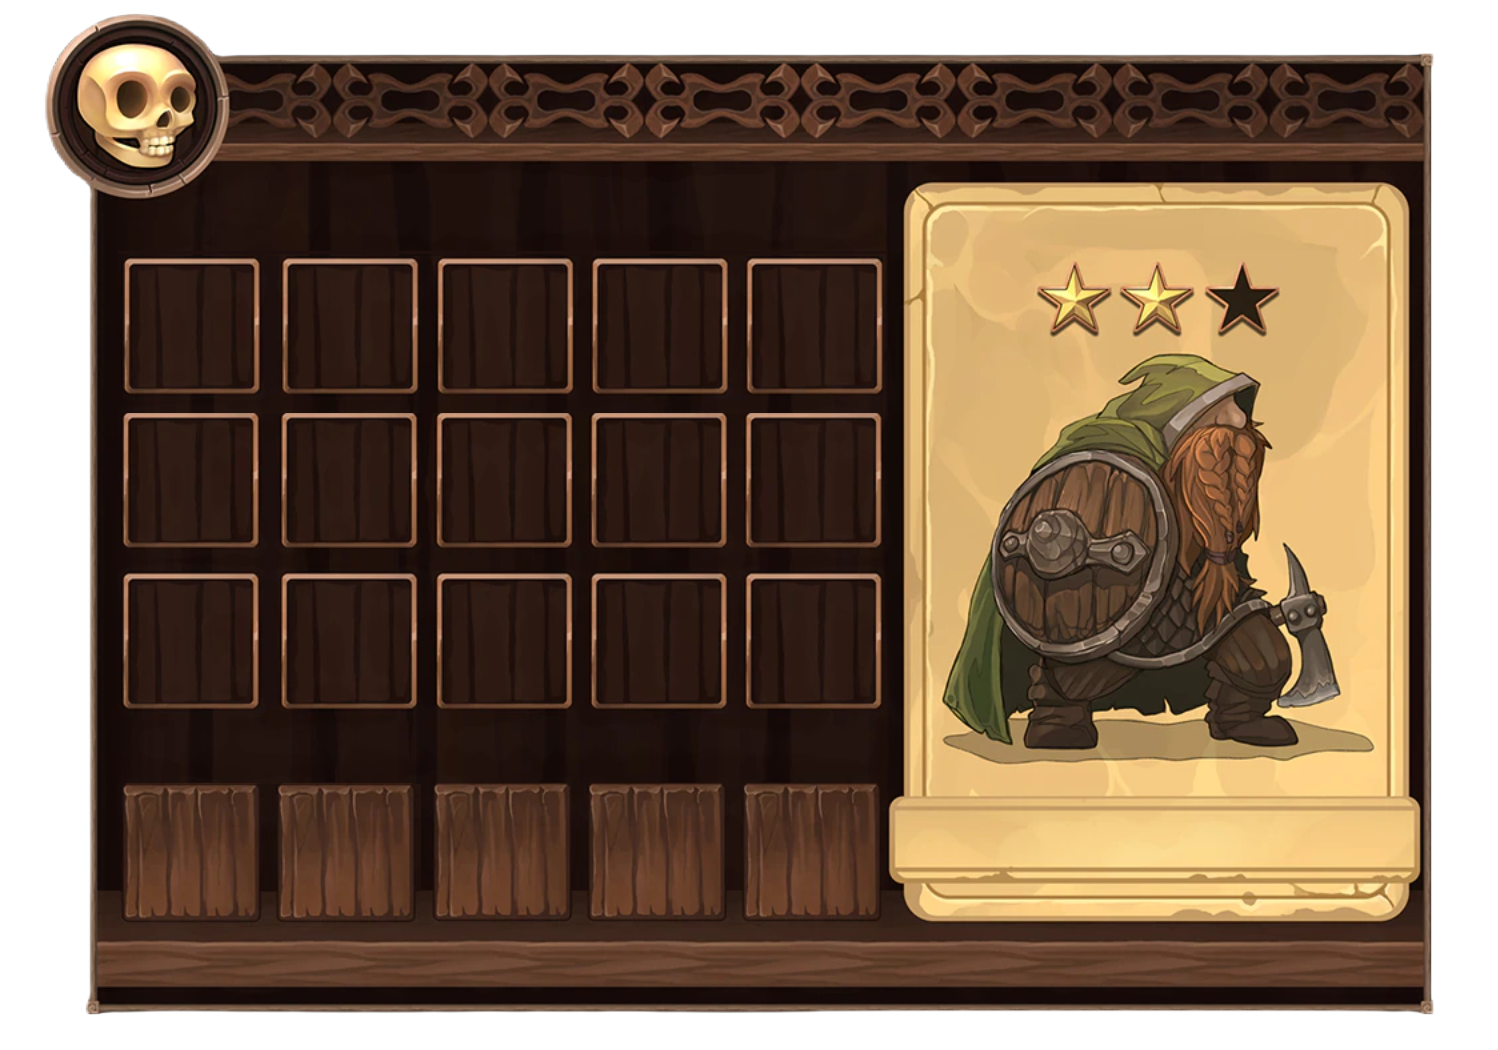
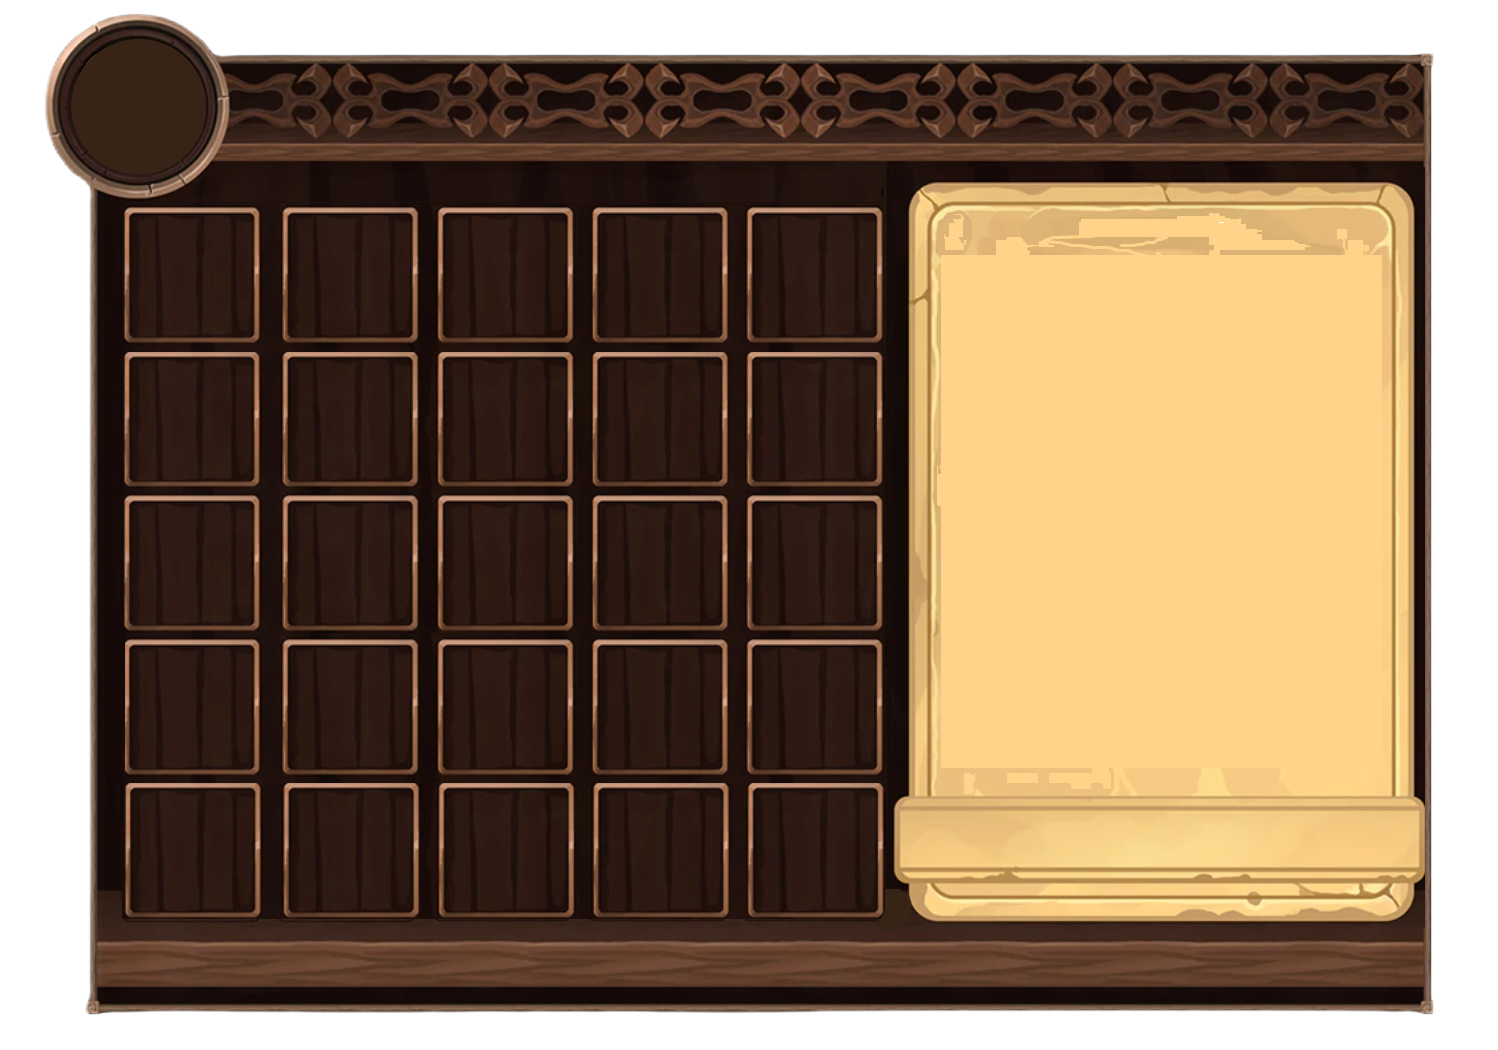
[increase amount of bag items list, add legends to drop]

Changed region(s): [[0.0307, 0.0305, 0.9519, 0.8838]]

diff --git a/traveler/src/components/hero-equipment-holder.vue b/traveler/src/components/hero-equipment-holder.vue
@@ -1,0 +1,125 @@
+<template>
+    <div class="heroEquipmentContainer empty">
+        <div class="equipmentSlot helmetSlot">
+            <div class="equipmentItemImg" v-if="equipment.helm == null"></div>
+            <button class="equipmentItemImg" :style="getItemStyle(equipment.helm)" v-if="equipment.helm != null"
+                @click="takeOffEquipment(equipment.helm)"></button>
+        </div>
+        <div class="equipmentSlot armorSlot">
+            <div class="equipmentItemImg" v-if="equipment.armor == null"></div>
+            <button class="equipmentItemImg" :style="getItemStyle(equipment.armor)" v-if="equipment.armor != null"
+                @click="takeOffEquipment(equipment.armor)"></button>
+        </div>
+        <div class="equipmentSlot shieldSlot">
+            <div class="equipmentItemImg" v-if="equipment.shield == null"></div>
+            <button class="equipmentItemImg" :style="getItemStyle(equipment.shield)" v-if="equipment.shield != null"
+                @click="takeOffEquipment(equipment.shield)"></button>
+        </div>
+        <div class="equipmentSlot weaponSlot">
+            <div class="equipmentItemImg" v-if="equipment.weapon == null"></div>
+            <button class="equipmentItemImg" :style="getItemStyle(equipment.weapon)" v-if="equipment.weapon != null"
+                @click="takeOffEquipment(equipment.weapon)"></button>
+        </div>
+    </div>
+</template>
+
+<script lang="ts">
+import { ItemType } from '@/enums/ItemType';
+import { Equipment } from '@/models/Equipment';
+import { LootItemModel } from '@/models/LootItemModel';
+import { useBagStore } from '@/stores/BagStore';
+import { useHeroStore } from '@/stores/HeroStore';
+
+
+export default {
+    name: "hero-equipment-tile",
+    props: {
+        equipment: {
+            type: Equipment,
+            required: true
+        }
+    },
+    data() {
+        const bagStore = useBagStore();
+        const heroStore = useHeroStore();
+        const hero = heroStore.hero;
+        return { bagStore, hero };
+    },
+    methods: {
+        getItemStyle(equipment: LootItemModel) {
+            const tileStyle = {
+                backgroundImage: 'url(' + require('@/assets/images/' + equipment.imgPath) + ')',
+            }
+            return tileStyle;
+        },
+        async takeOffEquipment(item: LootItemModel) {
+            if (item.itemType === ItemType.WEAPON) {
+                this.bagStore.putIn(item);
+                this.hero.attack -= this.hero.equipment.weapon.value;
+                this.hero.equipment.weapon = null;
+            } else if (item.itemType === ItemType.ARMOR) {
+                this.bagStore.putIn(item);
+                this.hero.maxHealth -= this.hero.equipment.armor.value;
+                this.hero.equipment.armor = null;
+            } else if (item.itemType === ItemType.HELM) {
+                this.bagStore.putIn(item);
+                this.hero.maxHealth -= this.hero.equipment.helm.value;
+                this.hero.equipment.helm = null;
+            }
+        }
+    }
+}
+
+</script>
+
+<style>
+.heroEquipmentContainer {
+    position: relative;
+    background-size: 100% 100%;
+    width: 355px;
+    height: 510px;
+    background-image: url('../assets/images/general/hero-equipment-holder-background.png');
+    border-radius: 2%;
+    top: 40px;
+    left: 596px;
+}
+
+.equipmentSlot {
+    position: relative;
+    background-size: 100% 100%;
+    border-radius: 10%;
+    width: 85px;
+    height: 85px;
+    background-image: url('../assets/images/general/equipmentTileBackground.png');
+}
+
+.helmetSlot {
+    top: 10px;
+    left: 118px;
+}
+
+.armorSlot {
+    top: 30px;
+    left: 118px;
+}
+
+.shieldSlot {
+    top: 60px;
+    left: 260px;
+}
+
+.weaponSlot {
+    top: 10px;
+}
+
+.equipmentItemImg {
+    position: relative;
+    top: 4px;
+    left: 3.5px;
+    width: 80px;
+    height: 80px;
+    background-size: 100% 100%;
+    border-radius: 10%;
+    background-image: url('../assets/images/actions/Double-J-Design-Origami-Colored-Pencil-Yellow-plus.256.png');
+}
+</style>

diff --git a/traveler/src/providers/WeaponProvider.ts b/traveler/src/providers/WeaponProvider.ts
@@ -5,58 +5,58 @@ import { ItemType } from "@/enums/ItemType";
 import { Randomizer } from "@/utils/Randomizer";
 
 export class WeaponProvider {
-  public static getRipper(): LootItemModel {
+  public static getSoulRipper(): LootItemModel {
     return new LootItemBuilder()
       .lootItemName("Soul Reaper")
-      .lootValue(10)
+      .lootValue(Randomizer.getRandomIntInRange(20, 50))
       .itemType(ItemType.WEAPON)
       .lootRarity(Rarity.LEGEND)
-      .lootItemImgPath("equipment/sword_soul_ripper.png")
-      .dropChance(Randomizer.getChance(5))
+      .lootItemImgPath("hero-equipment/weapons/knives/legend-type/sword_soul_ripper.png")
+      .dropChance(Randomizer.getChance(55))
       .build();
   }
 
-  public static getAxe(): LootItemModel {
+  public static getWoodCopperAxe(): LootItemModel {
     return new LootItemBuilder()
       .lootItemName("Wood Axe")
       .itemType(ItemType.WEAPON)
       .lootRarity(Rarity.COMMON)
-      .lootItemImgPath("equipment/common_axe.png")
-      .dropChance(Randomizer.getChance(50))
+      .lootItemImgPath("hero-equipment/weapons/axes/common-type/common_axe.png")
+      .dropChance(Randomizer.getChance(100))
       .generateAmount()
       .build();
   }
 
-  public static getSlasher(): LootItemModel {
+  public static getZombieSlasherAxe(): LootItemModel {
     return new LootItemBuilder()
       .lootItemName("Zombie Slasher")
       .lootValue(50)
       .itemType(ItemType.WEAPON)
       .lootRarity(Rarity.LEGEND)
-      .lootItemImgPath("equipment/slasher_axe.png")
-      .dropChance(Randomizer.getChance(5))
+      .lootItemImgPath("hero-equipment/weapons/axes/legend-type/slasher_axe.png")
+      .dropChance(Randomizer.getChance(55))
       .build();
   }
 
-  public static getProtector(): LootItemModel {
+  public static getProtectorArmor(): LootItemModel {
     return new LootItemBuilder()
       .lootItemName("Protector")
       .lootValue(50)
       .itemType(ItemType.ARMOR)
       .lootRarity(Rarity.LEGEND)
-      .lootItemImgPath("equipment/protector_armor.png")
-      .dropChance(Randomizer.getChance(5))
+      .lootItemImgPath("hero-equipment/armor/legend-type/protector_armor.png")
+      .dropChance(Randomizer.getChance(55))
       .build();
   }
 
-  public static getExecutor(): LootItemModel {
+  public static getExecutorHelm(): LootItemModel {
     return new LootItemBuilder()
       .lootItemName("Executor")
       .lootValue(50)
       .itemType(ItemType.HELM)
       .lootRarity(Rarity.LEGEND)
-      .lootItemImgPath("equipment/executor_helm.png")
-      .dropChance(Randomizer.getChance(5))
+      .lootItemImgPath("hero-equipment/helmets/legend-type/executor_helm.png")
+      .dropChance(Randomizer.getChance(55))
       .build();
   }
 
@@ -76,15 +76,16 @@ export class WeaponProvider {
   }
 
   public static getCommon(): LootItemModel[] {
-    return Array.of(this.getHealPotion(), this.getAxe());
+    return Array.of(this.getHealPotion(), this.getWoodCopperAxe());
   }
 
   public static getLegends(): LootItemModel[] {
     return Array.of(
-      this.getRipper(),
-      this.getProtector(),
-      this.getExecutor(),
-      this.getSlasher()
+      this.getHealPotion(), //to remove
+      this.getSoulRipper(),
+      this.getProtectorArmor(),
+      this.getExecutorHelm(),
+      this.getZombieSlasherAxe()
     );
   }
 }

diff --git a/traveler/src/components/HeroInventory.vue b/traveler/src/components/HeroInventory.vue
@@ -2,10 +2,10 @@
     <div class="inventoryOverlay" v-if="showInventory">
         <div class="inventoryContent">
             <button class="closeInventoryBtn" @click="$emit('heroInventory', false)">X</button>    
+            <HeroEquipmentHolder :equipment="hero.equipment"/>
             <div class="inventoryItemsContainer">
                 <BagItemTile v-for="bagItem in bagItems" :key="bagItem.id" :lootItem="bagItem"/>
             </div>
-            <HeroEquioments :equipment="hero.equipment"/>
         </div>
     </div>
 </template>
@@ -14,13 +14,13 @@
 import { LootItemModel } from '@/models/LootItemModel';
 import BagItemTile from '@/components/bag/bag-item-tile.vue';
 import { useBagStore } from '@/stores/BagStore';
-import HeroEquioments from '@/components/HeroEquioments.vue'
+import HeroEquipmentHolder from '@/components/hero-equipment-holder.vue'
 import { useHeroStore } from '@/stores/HeroStore';
 
 
 export default {
     name: "hero-inventory",
-    components: { BagItemTile, HeroEquioments },
+    components: { BagItemTile, HeroEquipmentHolder },
     props: {
         showInventory: {
             type: Boolean,
@@ -39,25 +39,13 @@ export default {
 </script>
 
 <style>
-.heroItemsContainer {
-    margin-top: 40px;
-    position: relative;
-    width: 510px;
-    height: 110px;
-    background-color: rgba(255, 251, 0, 0.16);
-    top: 100px;
-    left: 80px;
-    align-items: flex-end;
-    display: flex;
-    justify-content: space-between;
-    align-items: center;
-    flex-wrap: wrap;
-}
 .inventoryContent {
+    position: relative;
     width: 1000px;
     height: 700px;
     border-radius: 20px;
     margin: auto;
+    /* background-color: rgb(9, 255, 0); */
     background-image: url("../assets/images/items_inventory.png");
     background-size: 100%, 100%;
     margin-top: 50px;
@@ -76,17 +64,18 @@ export default {
 }
 
 .inventoryItemsContainer {
-    position: relative;
-    height: 305px;
     top: 100px;
-    left: 80px;
+    position: absolute;
+    height: 490px;
+    top: 133px;
+    left: 80px;  
     display: grid;
     grid-gap: 1px;
-    grid-template-columns: repeat(5, minmax(100px, 110px));
-    grid-template-rows: repeat(3, minmax(100px, 100px));
+    grid-template-columns: repeat(5, minmax(99px, 115px));
+    grid-template-rows: repeat(3, minmax(93px, 93px));
     gap: 5px;
     max-width: 520px;
-    padding: 6px;
+    padding: 8px;
 }
 
 .closeInventoryBtn {

diff --git a/traveler/src/stores/MapStore.ts b/traveler/src/stores/MapStore.ts
@@ -103,7 +103,7 @@ export const useMapStore = defineStore("map", {
       const chest: ChestModel = new ChestModel();
       for (let i = 0; i < enemies.length; i++) {
         if (enemies[i].loot.chance) {
-          enemies[i].loot.location = "Chest";
+          enemies[i].loot.place = "Chest";
           chest.addLoot(enemies[i].loot);
         }
       }
@@ -129,7 +129,7 @@ export const useMapStore = defineStore("map", {
 
         let loot = null;
         if (enemy.enemyType === EnemyType.WARRIOR) {
-          loot = Randomizer.getChance(5)
+          loot = Randomizer.getChance(100)
             ? Randomizer.getRandomEquipment(WeaponProvider.getLegends())
             : Randomizer.getRandomEquipment(WeaponProvider.getCommon());
         } else {

diff --git a/traveler/src/components/ChestItemTile.vue b/traveler/src/components/ChestItemTile.vue
@@ -1,6 +1,6 @@
 <template>
     <div class="chestItemArea">
-        <button class="chestItemImg" v-if="lootItem.location === 'Chest'" :style="getItemStyle(lootItem)" @click="takeItem(lootItem)"></button>
+        <button class="chestItemImg" v-if="lootItem.place === 'Chest'" :style="getItemStyle(lootItem)" @click="takeItem(lootItem)"></button>
     </div>
 </template>
 
@@ -34,7 +34,7 @@ export default {
         },
         async takeItem(item: LootItemModel) {
             this.bagStore.putIn(item);
-            item.location = "Bag";
+            item.place = "Bag";
         }
     }
 }

diff --git a/traveler/src/models/LootItemModel.ts b/traveler/src/models/LootItemModel.ts
@@ -1,7 +1,7 @@
 import { IHeroItem } from "@/abstraction/IHeroItem";
 import { ItemType } from "@/enums/ItemType";
 import { Rarity } from "@/enums/Rarity";
-import { v4 as uuidv4 } from "uuid";
+import { v4 as uuid } from "uuid";
 
 export class LootItemModel implements IHeroItem {
   name: string;
@@ -10,7 +10,7 @@ export class LootItemModel implements IHeroItem {
   borderFrame: string;
   itemType: ItemType;
   rarity: Rarity;
-  id = uuidv4();
+  id = uuid();
   chance: boolean;
-  location: "Bag" | "Chest";
+  place: "Bag" | "Chest";
 }

diff --git a/traveler/src/components/Battlefield.vue b/traveler/src/components/Battlefield.vue
@@ -40,9 +40,9 @@
 import BattleEnemyTile from "./battle-enemy-tile.vue";
 import { PropType } from "vue";
 import TileModel from "../models/TileModel";
-import { useHeroStore } from "@/stores/HeroStore";
+import { useHeroStore } from "../stores/HeroStore";
 import { useMapStore } from '../stores/MapStore';
-import EnemyModel from "@/models/EnemyModel";
+import EnemyModel from "../models/EnemyModel";
 
 export default {
   name: "battle-field",

diff --git a/traveler/src/stores/BagStore.ts b/traveler/src/stores/BagStore.ts
@@ -6,7 +6,7 @@ export const useBagStore = defineStore("bag", {
     return {
       bagItems: [],
       isShown: false,
-      bagCapacity: 15,
+      bagCapacity: 25,
     };
   },
   getters: {
